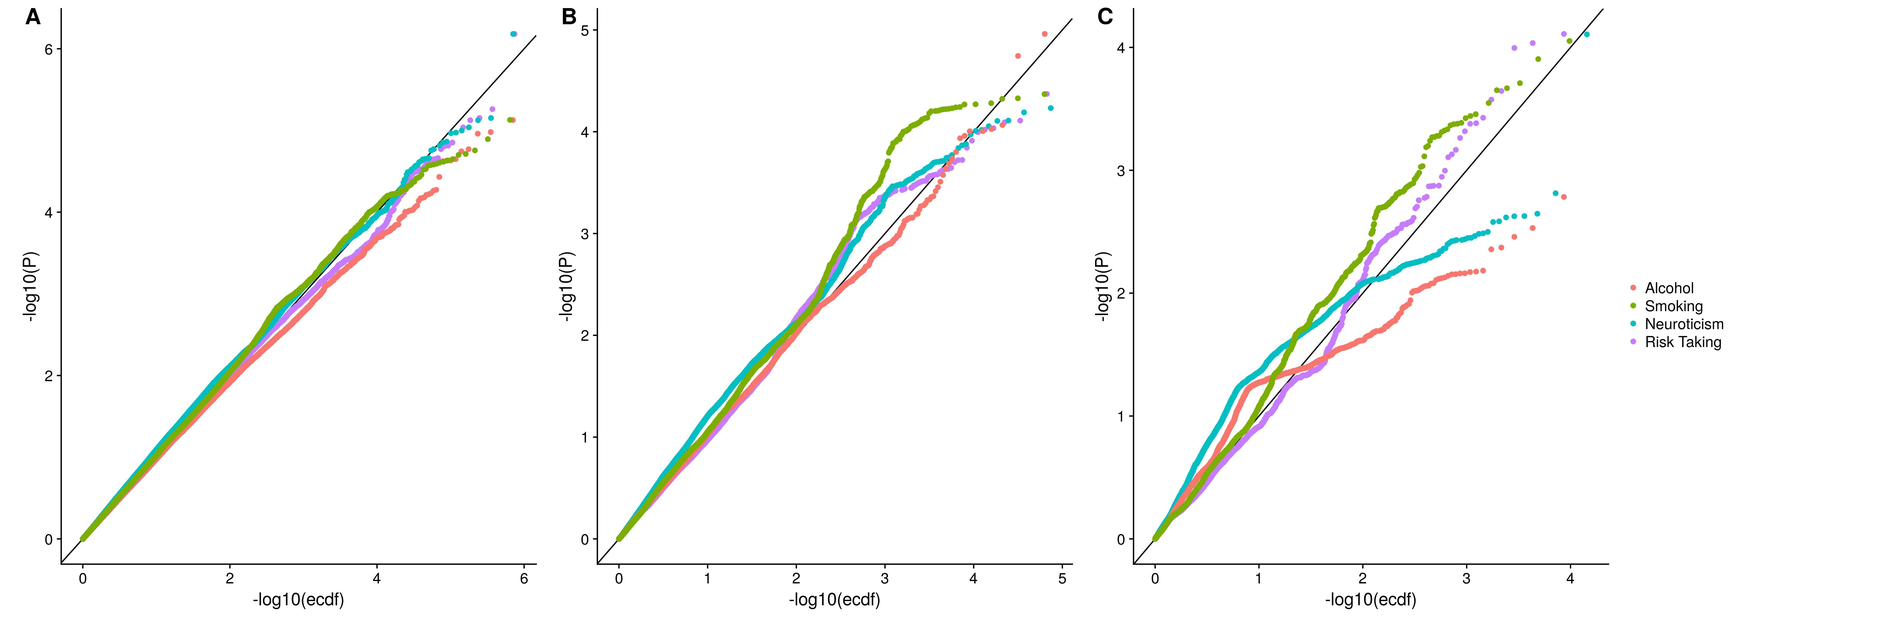
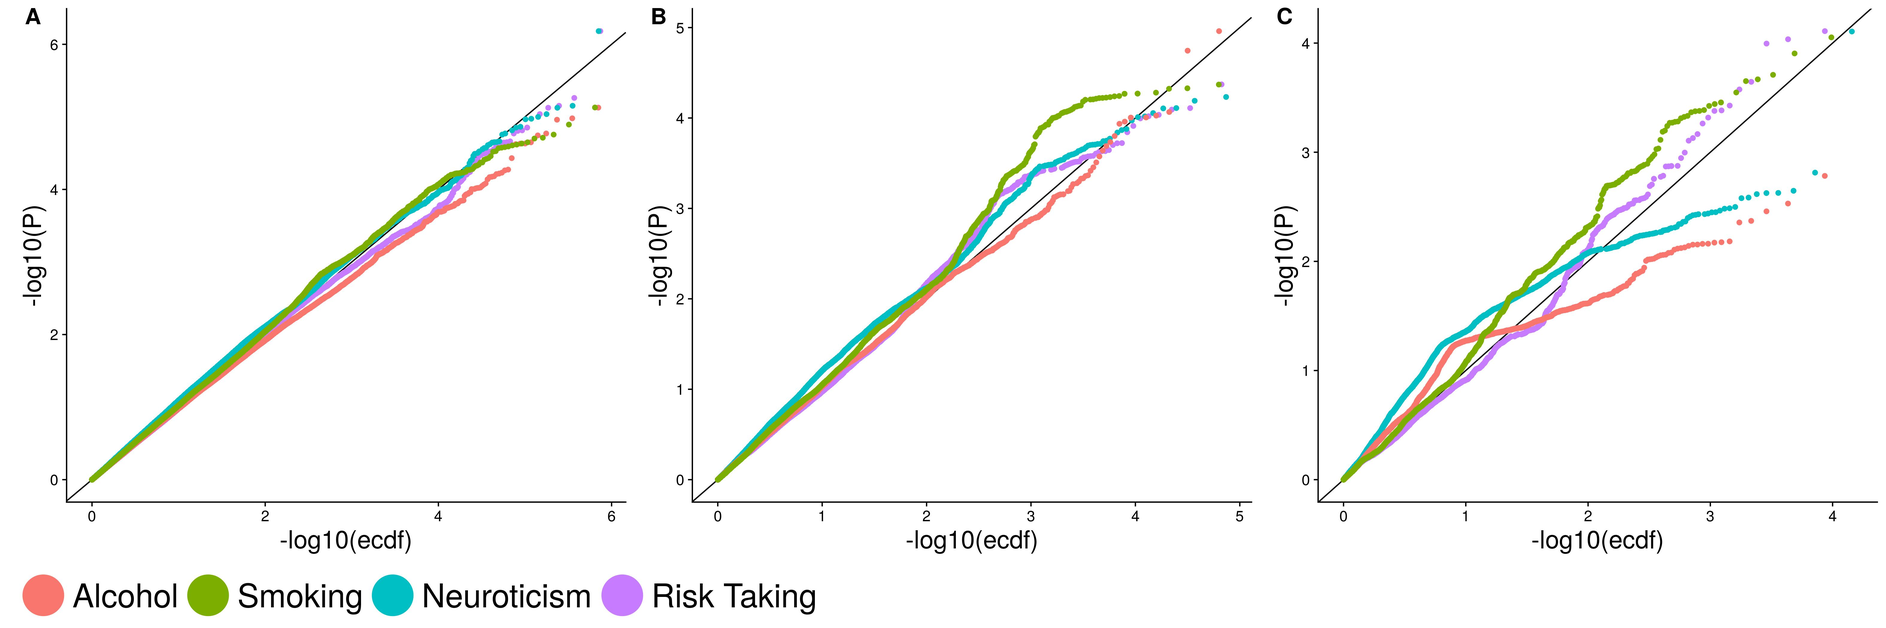
Overall editing and minor changes to ukb_assoc
- moved qq plots to appendix
- fixed figures for the conditional qq plots
- edited minor changes to intro, method, results and discussion
- removed uncessary phenotypes from descriptive table

diff --git a/tex/ukb_assoc/results.tex b/tex/ukb_assoc/results.tex
@@ -4,9 +4,8 @@
 \subsection{Descriptive Statistics}
 \label{sub:descriptive_statistics}
 
-Sex and age of participants is affecting both main and secondary phenotypes.
-However, while effects of both age and sex are significant these effects are rather small (see Figure~\ref{fig:disc}).
-Nevertheless, one can observe noticeable sex differnces in risk taking, alcohol consumption as well as neuroticism.
+Sex and age of participants is affecting both main and secondary phenotypes (see Figure~\ref{fig:disc}).
+One can observe noticeable sex differnces in risk taking, alcohol consumption as well as neuroticism.
 As expected, risk taking is more prevalent in male than in female subjects. 
 Similar, man seem to drink more alcohol than women.
 The opposite seems to be the case for neuroticism.
@@ -17,13 +16,13 @@ Similar to the effect of sex, age seem to have some influence on aggression, ris
 Risk taking, neuroticism and impulsive aggression seem to decline by age, while alcohol consumption seems rather stable.
 Further, one can observe that older individuals are more likley to currently smoke, or have smoked in the past.
 A result which is not particular surprising.
-
+Furthermore, these result suggest that a genome wide association study should include both age and sex as covariats.
 
 \begin{figure}[htpb]
   \centering
   \includegraphics[width=0.8\linewidth]{figure/phenotype/descriptives_plots.pdf}
   \caption{
-    Descriptive Statistics of primary and secondary phenotypes.
+    Descriptive Statistics of primary and secondary phenotypes for all participants.
     (A) Standarized effect of sex (male, female) on phenotypes. 
     A possitive effect size indicates creater prevalance in male than in female.
     Errorbars indicate the 95\% confidence interval.
@@ -54,59 +53,37 @@ Nevertheless, medium correlations were present between impulsive aggression and 
   \centering
   \includegraphics[width=0.6\linewidth]{figure/phenotype/corr_plot_ci.pdf} 
   \caption{
-    Phenotypical correlations among analysed phenotypes.
+    Phenotypical correlations among analysed phenotypes for all subjects.
     Displayed correlations were all significant after adjusting for multiple testing using the Bonferroni correction.
     In contrast to the genetic correlations, Caucasian and non-Caucasian subjects were used.
   }\label{fig:corr_pheno}
 \end{figure}
 
-\subsection{GWAS on Impulsive Aggression}
-\label{sub:impulsive_aggression_gwas}
+\subsection{GWAS on impulsive aggression and risk taking}
+\label{sub:gwas}
 
-Genome wide association analysis reveled no genome wide significant loci in $37,320$ subjects (see Figure~\ref{fig:gwas_impAgg}).
+Genome wide association analysis reveled no genome wide significant loci in $37,320$ impulsive aggression subjects.
 Observed SNP heritability was estimated at $5.32\% (SE=0.012)$ and are in line with previous estimated SNPs heritabilities in behavioral traits.
-
-\begin{figure}[!htpb]
-  \begin{subfigure}[t]{.5\textwidth}
-    \centering
-    \includegraphics[width=0.8\linewidth]{{figure/qq_plots/qq_plot_4526}.jpeg}
-    \caption{QQ-plot for Impulsive aggression}\label{fig:ImpAgqq}
-  \end{subfigure}
-  \begin{subfigure}[t]{.5\textwidth}
-    \centering
-    \includegraphics[width=0.8\linewidth]{{figure/manhatten_plots/manhatten_plot_4526}.jpeg}
-    \caption{Manhattan plot for Impulsive aggression}\label{fig:ImpAgmanhatten}
-  \end{subfigure}
-  \caption{
-    Manhattan and QQ Plot for Impulsive aggression.
-    No genome wide significant SNPs were identified in the given sample.\label{fig:gwas_impAgg}}
-\end{figure}
-
-\subsection{GWAS on Risk Taking}
-\label{sub:risk_taking_gwas}
 
 The genome wide association study on risk taking yield two genome wide significant loci in $120,286$ subjects in chromosome 3 and 6.
 Total observed SNP heritability is with $5.52\% (SE=0.0052)$ similar to that of impulsive aggression.
 The ratio between the LD-score regression intercept $\beta_0$ and the mean of the $\chi^2$-test statistics ($(\beta_0 - 1)/(mean(\chi^2)-1)$),
-which indicates the proportion of inflation to factors other than polygenic heritability, is with $0.0422$ ($SE=0.052$) low.
+which indicates the proportion of inflation to factors other than polygenic heritability, is with $0.0422$ ($SE=0.052$) neglectable.
 In addition, $\beta_0$ approaches 1 ($\beta_0=1.0082, SE=0.0056$) thus suggesting no population stratification (see Figure~\ref{fig:riskqq}).
 
 \begin{figure}[!htpb]
-	\begin{subfigure}{.5\textwidth}
-		\centering
-		\includegraphics[width=0.8\linewidth]{{figure/qq_plots/qq_plot_2040}.jpeg}
-		\caption{QQ-Plot of risk taking.}\label{fig:riskqq}
-	\end{subfigure}
-	\begin{subfigure}{.5\textwidth}
-		\centering
-		\includegraphics[width=0.8\linewidth]{{figure/manhatten_plots/manhatten_plot_2040}.jpeg}
-		\caption{
-      Manhattan plot of risk taking.
-      The horizontal like indicate genome wide significance.
-    }\label{fig:riskmanhatten}
-	\end{subfigure}
-  \caption{QQ and Manhattan plot for Risk Taking. 
-    Two separate genome wide significant loci were identified, while a third is marginal significant.\label{fig:risktaking_gwas}}
+  \begin{subfigure}{1\textwidth}
+  \centering
+  \includegraphics[width=0.8\linewidth]{figure/manhatten_plots/agg_manhatten_color_2_A.jpeg}
+  \end{subfigure}
+  \begin{subfigure}{1\textwidth}
+  \centering
+  \includegraphics[width=0.8\linewidth]{figure/manhatten_plots/risk_manhatten_color_B.jpeg}
+  \end{subfigure}
+  \caption{
+    Manhattan Plot for impulsive aggression (A) and risk taking (B).
+    The red line indicates genome wide significance level at $\alpha=5\times10^{-8}$.
+    The blue line represents a suggestive genetic effect at $\alpha=5\times10^{-5}$.}
 \end{figure}
 
 Closer inspection of the signal in chromosome 3 shows 2 lead SNPs namely \textit{rs1308431} and \textit{rs7639518} (see Table~\ref{tab:lead_snps_risk}).
@@ -117,14 +94,14 @@ This conditional model indicates that \textit{rs7639518} is not independent of \
 
 \paragraph{rs9379971}
 \label{par:rs9379971}
-This particular variant has the strongest association among all tested SNPs with a p-value of $2.14e-09$ (see Figure~\ref{fig:rs9379971}). 
+This particular variant has the strongest association among all tested SNPs with a p-value of $2.14\times10^{-9}$ (see Figure~\ref{fig:rs9379971}). 
 The SNP is an intronic variant, without any mentioning in the GWAS catalog~\cite{Welter2014}.
 The SNPs has been associated with \textit{POM121L2} and the region has been connected with schizophrenia across multiple studies~\cite{Aberg2013,Shi2009}.
 However, the function of \textit{POM121L2} is not well understood.
 
 \paragraph{rs13084531}
 \label{par:rs13084531}
-This SNP has a comparable p-value ($9.826e-09$) and is an intron variant within the gene \textit{CADM2}.
+This SNP has a comparable p-value ($9.826\times10^{-9}$) and is an intron variant within the gene \textit{CADM2}.
 The gene has been associated with BMI~\cite{Speliotes2010} as well as executive functions and processing speed~\cite{Ibrahim-Verbaas2015}.
 Interestingly the SNP associated in the study by~\cite{Ibrahim-Verbaas2015} (\textit{rs17518584}) is in LD with \textit{rs13084531} ($r^2=0.4951;D'=0.9983$).
 Hence suggesting a common loci for executive functions and risk taking.
@@ -133,8 +110,8 @@ Further associated region (3p12.1) has been connected to spirometric measures in
 \paragraph{rs4386663}
 \label{par:rs4386663}
 This SNP is an intergenic variant with no known association to regulatory functions or genes.
-However, the SNP is only marginal significant ($6.059e-08$).
-Interestingly the chromosomal region of this SNP (chr4q12) was also associated with spirometric measures in smokers by the same study as in variant \textit{rs13084531} (see paragraph~\ref{par:rs13084531}).
+However, the SNP is only marginal significant ($6.059\times10^{-8}$).
+Interestingly the chromosomal region of this SNP (chr4q12) was also associated with spirometric measures in smokers by the same study as in variant \textit{rs13084531}.
 
 \begin{table}
 	\small
@@ -151,16 +128,14 @@ Interestingly the chromosomal region of this SNP (chr4q12) was also associated w
 
 Figure~\ref{fig:cFDR} shows the conditional QQ plots for both aggression and risk taking for each of the chosen thresholds and conditional phenotypes.
 Both aggression and risk taking, conditional on each other did not result in any noticeable pleiotropic effect.
-However, while aggression conditional on neuroticism did not result in an inflation within the conditional QQ plots, risk taking was noticeable inflated conditional on SNPs which reached a relatively low p-value cut-off.
-This was also the case for both smoking and alcohol consumption.
+However, risk taking was noticeable inflated conditional on SNPs which reached a relatively low p-value cut-off in neuroticism, alcohol consumption and smoking.
 Interestingly, inflation of risk taking SNPs conditional on neuroticism was not persistent across the chosen thresholds.
 In particular, while considerable inflation could be observed at $p\leq0.1$, at lower p-value threshold this effect was reduced.
 In contrary, the inflation caused conditional on alcohol consumption and smoking was persistent across the three thresholds.
 
 As already indicated in Figure~\ref{fig:cFDR}, impulsive aggression conditional on the four remaining phenotypes did not result in any loci with an $cFDR\leq0.01$.
-Nevertheless, cFDR identified a single independent loci, \textit{rs570682061}, in risk taking which passes both $cFDR\leq0.01$ as well replication in an independent sample (Table~\ref{tab:cFDR}).
-This particular SNPs is independent of the genome wide significant loci identified unconditional on other phenotypes.
-This locus has not been associated with any known gene or phenotype.
+Nevertheless, cFDR identified a single independent loci, \textit{rs570682061}, in risk taking which passes both $cFDR\leq0.01$ as well replication in an independent sample after clumping (Table~\ref{tab:cFDR}).
+This particular SNPs is independent of the genome wide significant loci identified unconditional on other phenotypes and has not been associated with any known gene, regulatory element or phenotype.
 
 \begin{figure}[!htpb]
   \centering
@@ -200,13 +175,13 @@ The largest genetic correlations could be observed between impulsive aggression 
 followed by a considerable correlation between risk taking and aggression ($r_g=0.44, SE=0.1039, p=2.6656e-5$).
 Interestingly, relatively large negative correlations are also present between alcohol consumption and aggression ($r_g=-0.39, SE=0.0892, p=1.6942e-5$)
 as well as between smoking and aggression ($r_g=0.4, SE=0.0716, p=1.6442e-08$).
-Correlation, between smoking and alcohol consumption is not significant as well of neglectable effect ($r_g=0.06, SE=0.044628, p=0.15502$).
+Correlation, between smoking and alcohol consumption was not significant as well of neglectable effect ($r_g=0.06, SE=0.044628, p=0.15502$).
 Interestingly, these respectively high genetic correlations are not reflected in the corresponding conditional FDR (see Figure~\ref{fig:cFDR}).
 
 Further, risk taking shows non-significant and small correlation with neuroticism ($r_g=-0.12, SE=0.0738, p=0.10629$) and
 alcohol consumption ($r_g=0.07, SE=0.051506, p=0.19604$) but the correlation between risk taking and smoking ($r_g=0.34, SE=0.0514, p=2.4044E-11$) is considerable.
 In addition, medium correlations were present between neuroticism and alcohol consumption ($r_g=-0.17, SE=0.0406, p=2.6366e-4$). 
-Correlations were also present between neuroticism and smoking, but the effect did not pass multiple testing ($r_g=0.16, SE=0.0662, p=0.017786$).
+Effects were also present between neuroticism and smoking, but did not pass multiple testing ($r_g=0.16, SE=0.0662, p=0.017786$).
 
 \begin{figure}[!h]
 	\centering
@@ -217,5 +192,3 @@ Correlations were also present between neuroticism and smoking, but the effect d
     A cross indicate a non-significant correlation after adjusting for multiple testing.
   }\label{fig:gcor}
 \end{figure}
-
-

diff --git a/tex/ukb_assoc/introduction.tex b/tex/ukb_assoc/introduction.tex
@@ -4,38 +4,36 @@
 As described in Chapter~\ref{chap:longHera}, aggressive behavior is influenced by genetic factors to a considerable degree.
 However, while twin studies are able to estimate the overall influence of genetic and environmental factors on a phenotype, these studies are unable to identify specific genetic loci.
 The identification of specific genetic markers can foster our knowledge of the biological components involved in aggressive behavior. 
-This chapter will describe and present the result of two Genome Wide Association Studies (see Section~\ref{sec:descriptive_gwas}).
-Namely impulsive aggression and risk taking.
+This chapter will describe and present the result of two Genome Wide Association Studies (see Section~\ref{sec:descriptive_gwas}) on impulsive aggression and risk taking.
 
 As outlined in Section~\ref{sec:evolutionary_theories}, aggressive behavior is associated with a significant risk for ones own well-being.
 An aggressive action could result in bodily harm, death and reduced survival and reproductive fitness and is therefore an especially risky behavior.
 Thus it is not surprising that risk taking and aggression have been shown to be closely linked in previous studies.
 For example, a study of rural middle school children found that higher level of risk taking was  predictive for general acceptance of aggression as well as aggressive behavior in general~\cite{Swaim2004}.
 In another example,~\citet{Deffenbacher2003} showed that high anger drivers engaged in more risky behavior than low anger drivers.
-Further, \citet{Zuckerman2000} suggested that certain personality characterises are associated with risk taking, namely impulsive sensation seeking, aggression and sociability, are part of a evolutionary based sensation seeking behavior which facilitated risky behavior.
+\citet{Zuckerman2000} suggested that certain personality characterises are associated with risk taking, namely impulsive sensation seeking, aggression and sociability, and are part of a evolutionary based sensation seeking behavior which facilitated risky behavior.
 These behaviors could support the exploration of new territories, and foraging for food and mates.
 Therefore, provide an potential evolutionary advantage.
-However, these behaviors can also result in maladaptive adaptations within our modern times, such as reckless driving or drug abuse, as well as aggression.
+However, these behaviors can also result in maladaptive adaptations within our modern times, such as reckless driving or aggressive behavior towards peers and others.
 Unfortunately, while there is considerable literature regarding the heritability of both risk taking and aggression (see Chapter~\ref{chap:longHera}) there is no study investigating the genetic correlations between the two phenotypes.
 Thus it remains unclear to which extend risk taking and aggression might share specific functional pathways or how close these two phenotypes are genetically.
 
-Previously testosterone~\cite{Vermeersch2008} has been suggested to influence both risk taking and aggressive behavior since both behaviors are disproportional present in male~\cite{Byrnes1999}.
+Previously, testosterone~\cite{Vermeersch2008} has been suggested to influence both risk taking and aggressive behavior since both behaviors are disproportional present in male~\cite{Byrnes1999}.
 However, recent meta-analysis have shown that  the influence of this sex hormone is unclear and there is currently no evidence that the hormone affects either aggression~\cite{Archer2005a} or risk taking~\cite{Vermeersch2008}.
 
 Overall heritability estimates are rather similar between risk taking~\cite{Anokhin2009} and aggression (see Chapter~\ref{chap:longHera})
 However, there is some indication that the proportion of variance explained by genetic factors might depend on age in risk taking~\cite{Anokhin2009} but not in aggression~\cite{Porsch2016}.
-In a study on 12 and 14 year old twin pairs who took part in risk taking task showed only small genetic effects at age 12, but considerable genetic influence at age 14 (50\%)~\cite{Anokhin2009}.
+In a study on 12 and 14 year old twin pairs who took part in risk taking task showed only no genetic effects at age 12, but considerable genetic influence at age 14 (50\%)~\cite{Anokhin2009}.
 This is in contrast to the study presented in Chapter~\ref{chap:longHera} which reported stable influence of genetic factors across three different age groups.
 However the study by~\citet{Anokhin2009} used only 169 MZ and 203 DZ twins across the two age groups.
 These low sample sizes could considerable impair the detection of common environment and genetic effects. 
 Hence it is unclear if heritability estimates remain stable across age groups in risk taking.
 
-In addition to previous efforts to estimate heritability of aggression and risk taking there have been a number of studies aimed to identify specific genetic loci associated with aggression and risk taking in GWAS\@.
-Specifically there have been a number of GWASs on aggressive behavior~\cite{Fernandez-Castillo2016}.
-However, most studies have little statistical power and were unable to identify genome wide associated loci.
-In one of the most comprehensive meta-analysis of aggressive behavior~\citet{Vassos2014} the authors found no genome wide significant signal.
+In addition to previous efforts to estimate the overall heritability of aggression and risk taking there have been a number of studies aimed to identify specific genetic loci.
+However, most GWASs on aggression have little statistical power and were unable to identify genome wide associated loci.
+In one of the most comprehensive meta-analysis no genome wide significant signal was detected~\citet{Vassos2014}.
 However, studies included in this meta-analysis showed a considerable degree of heterogeneity in the phenotype.
-Specifically, the study included psychiatric as well as population based samples, hence making it difficult to identify loci specific signals.
+Specifically, it included psychiatric as well as population based samples, hence impairing the authors ability to detect genome wide significant signals.
 Indeed, in their review of association studies in aggressive behavior,~\citet{Fernandez-Castillo2016} found that most hypothesis free approaches lacked sample size, assessed often very heterogeneous phenotypes and did not differentiated between direct and indirect aggression. 
 Thus explaining the lack of genome wide associations in aggressive behavior.
 
@@ -57,18 +55,18 @@ However, the genetic correlations between impulsive aggression, risk taking and 
 A better understanding of these genetic interrelationships could provide valuable inside into shared molecular pathways of these complex human behaviors.
 
 At last a number of personality measurements have been associated with risk taking and aggressive behavior~\cite{Anderson2002a}.
-Most prominently, Neuroticism.
+Most prominently, neuroticism.
 Neurotic individuals have been found to express higher levels of anger, as well as other negative emotions such as anxiety, sadness and guilt~\cite{Watson1984}.
-Specifically, Neuroticism is linked to coping strategies which increase interpersonal conflicts~\cite{Bolger1991,Ode2008}
+Specifically, neuroticism is linked to coping strategies which increase interpersonal conflicts~\cite{Bolger1991,Ode2008}
 Further, neurotic individuals are more reactive to negative stressors therefore resulting in higher levels of expressed anger and aggression~\cite{Ode2008}.
-Similar a number of other studies reported a lower level of risk taking in subjects with higher degree of Neuroticism~\cite{Lauriola2001,InstituteofMedicine2011,Paulus2003}.
+Similar a number of other studies reported a lower level of risk taking in subjects with higher degree of neuroticism~\cite{Lauriola2001,InstituteofMedicine2011,Paulus2003}.
 These phenotypic findings would suggest a considerable genetic overlap between risk taking, aggression and Neuroticism.
-However, currently there is no study addressing the potential genetic overlap of Neuroticism, aggression and risk taking.
+However, currently there is no study addressing the potential genetic overlap of neuroticism, aggression and risk taking.
 
 In conclusion, while there have been a number of studies conducted to identify specific genetic loci associated  with either risk taking and aggression, only one genome wide significant signal could be identified for risk taking.
 Attempts to identify specific molecular markers with aggression were handicapped by low sample size and high phenotypic heterogeneity.
 Further, there are currently no studies looking at the genetic overlap between aggression, risk taking and related phenotypes.
-Specifically, alcohol consumption, tobacco usage, and Neuroticism.
+Specifically, alcohol consumption, tobacco usage, and neuroticism.
 
 Within this study I will make use of the UK BioBank and aim to identify specific genetic loci associated with aggression and risk taking.
-In addition, I will estimate the genetic correlations between alcohol consumption, risk taking, aggression, Neuroticism, as well as smoking behaviors in order to foster our understanding of the relationship between these complex human behaviors.
+In addition, I will estimate the genetic correlations between alcohol consumption, risk taking, aggression, neuroticism, as well as smoking behaviors in order to foster our understanding of the relationship between these complex human behaviors.

diff --git a/tex/ukb_assoc/discussion.tex b/tex/ukb_assoc/discussion.tex
@@ -24,8 +24,7 @@ However, there are multiple possible explanation for this discrepancy.
 Foremost, previous studies investigating the causal link between alcohol consumption and aggression were randomized control trials and used only small number of participants.
 In addition, most participants were College students.
 In contrast the here presented investigation made use of a population based sample of mostly older participants.
-Thus could potentially explain the differences between previous studies and the here presented phenotypical results.
-Nevertheless, it is still important to note that this would affect the genetic correlations between the two traits to a lesser extend.
+This could potentially explain the differences between previous studies and the here presented phenotypical results.
 
 It is further surprising that the overall genetic correlation between alcohol consumption and risk taking is relatively low.
 This stands in contrast to the considerable inflation within the conditional QQ-plot.
@@ -35,13 +34,13 @@ An alternative consideration is that the genetic correlation between risk taking
 However, this argument stand in contrast to the considerable genetic correlations between impulsive aggression and alcohol consumption, while the cFDR for aggressive behavior displays no indication of an inflation.
 Here it is important to note that genetic correlations can arise from a multitude of different factors (as described in Section~\ref{sec:heritability_and_genetic_correlation}).
 Assessing the whole genome to estimate a pairwise correlation could potentially be more biased by additional third variables than assessing the overall inflation of SNPs selected under some $p-value$ threshold.
-Similar a recent study by~\citet{Shi2016a} showed considerable regional genetic correlations among traits which had neglectable overall correlations.
+Similar a recent study by~\citet{Shi2016a} showed regional genetic correlations among traits which had neglectable overall correlations.
 Thus supporting the argument that the discrepancy between cFDR and genetic correlations is due to the selection of highly significant SNPs.
 
 In addition to the identified genetic overlap of alcohol consumption with risk taking and aggressive behavior the involvement of smoking is also of relevance.
 In particular, two genome wide significant genetic variants have, next to their association with risk taking, also associations with spirometric measurements of smokers.
 This potential genetic overlap is supported by both cFDR as well as genetic correlations estimates.
-These considerable genetic overlaps are surprising given the very limited phenotypical correlations between the smoking and risk taking as well as aggression.
+These genetic overlaps are surprising given the very limited phenotypical correlations between the smoking and risk taking as well as aggression.
 A possible explanation is that smoking behavior is influenced by the ability of an individual to  inhibit temptation.
 While this effect might not be strong enough to be observed in the phenotypic data, it does manifest itself by a genetic overlap with both risk taking and aggressive behavior.
 Two phenotypes which have been liked to a sensation seeking personality cluster~\cite{Zuckerman2000}.
@@ -52,14 +51,14 @@ Similar, analysis of the interrelationship between neuroticism and risk taking a
 Specifically, while the genetic correlations between impulsive aggression and neuroticism is high, the correlations between the personality trait and risk taking is not significant, nor of large effect.
 This is very much in line with the phenotypic correlations which suggest relatively high correlations between neuroticism and aggression but nearly no correlation with risk taking.
 Further, previous studies have shown that neurotic individuals are less likely to engage in risky behavior~\cite{Lauriola2001,InstituteofMedicine2011,Paulus2003}, while subjects with high level of neuroticism are known to be more likely act aggressively towards others~\cite{Meesters2007}.
-There here presented genetic evidence support this phenotypical connection and further suggest that neuroticism and aggressive behavior share substantial degree of genetic factors.
+The here presented genetic evidence support this phenotypical connection and further suggest that neuroticism and aggressive behavior share substantial degree of genetic factors.
 
-Despite the here presented strong evidence for genetic overlap between risk taking, aggression, alcohol consumption, smoking and neuroticism there a few limitations.
+Nevertheless, the here presented study has a few limitations.
 Foremost, I was unable to detect a genome wide significant signal in impulsive aggression.
 This can be explained by the limited sample size which potentially also affect the analysis of the cFDR\@.
 However, the sample size is sufficient to compute genetic correlations across all analysed phenotypes.
 
-While the instrument used to measure both neuroticism, alcohol consumption, risk taking and smoking status have been used in the past, the usage of single item questionnaires to assess aggression is not common.
+In addition, while the instrument used to measure both neuroticism, alcohol consumption, risk taking and smoking status have been used in the past, the usage of single item questionnaires to assess aggression is not common.
 However, as shown in Chapter~\ref{chap:longHera}, distribution of aggression scores often approach an L-like distribution and can often be dichotomised into either aggressive or not aggressive individuals.
 Thus suggesting that the use of a single item to measure aggressive behavior is justified.
 
@@ -68,7 +67,7 @@ Thus suggesting that the use of a single item to measure aggressive behavior is 
 
 This study was able to replicated previous genome wide significant signals in risk taking.
 Further, usage of conditional FDR was able to identify an additional locus associated with risk taking.
-In addition, I showed considerable genetic overlap between risk taking and aggressive behavior, as well as with other traits.
+In addition, I have showen considerable genetic overlap between risk taking and aggressive behavior, as well as with other traits.
 In particular, between aggression and neuroticism as well as between smoking and risk taking.
 Thus suggesting that these traits might be influenced by common genetic factors.
 However, the exact causal connection between these traits remains unknown and further studies, possibly with the use of Mendelian randomizations, might be necessary to further understand the interrelationships between these complex human behaviors. 

diff --git a/tex/ukb_assoc/method.tex b/tex/ukb_assoc/method.tex
@@ -49,7 +49,10 @@ Smoking status was infered by asking participants if they ever have smoked (scor
 \begin{table}[!htpb]
 	\centering
 	\resizebox{\textwidth}{!}{\input{tables/descriptive.tex}}
-  \caption{Sample size and missingness across Caucasians and non-Caucasians participants.
+  \caption{
+    Sample size and missingness across Caucasians and non-Caucasians participants.
+    Missingness indicates the percentage of participants who were not phenotyped for a particular trait.
+    The Caucasian sample represents all participants which were used to conduct the genome wide association study.
 }\label{tab:descriptive_gwas} 
 \end{table}
 
@@ -61,7 +64,7 @@ UL BiLEVE was used for most samples ($\sim100,000$), while the array chip from A
 Quality control and imputation was performed central with the UK BioBank.
 However, I further conducted additional quality control.
 Variants which whose missing call rate did exceed 10\% as well as those with minor allele frequency below 1\% were excluded.
-Further variants which did not pass a Hardy-Weinberg equilibrium test threshold of $1e-9$ were also removed from the analysis.
+Further variants which did not pass a Hardy-Weinberg equilibrium test threshold of $1\items10^{-9}$ were also removed from the analysis.
 In addition I only included participants with `white European' ancestry identified by a k-mean cluster of the first four principle components of genotype data.
 The total number of participants remaining after quality control of geno- and phenotype are displayed in Table~\ref{tab:descriptive_gwas}.
 
@@ -73,7 +76,7 @@ Association analysis of autosomal SNPs was performed with Plink~\cite{Purcell200
 Lead SNPs were identified using clumping.
 Clumping is the process of grouping SNPs within a given genomic window and LD together.
 Various thresholds and window sizes can be used.
-Within this study the more commonly $250kb$ window region was used.
+Within this study the more commonly $250kb$ window region was applied.
 SNPs were considered to be within the same LD group when passing an threshold of $r^2 \ge 0.2$.
 The SNPs with the lowest p-value within each group was considered the lead SNPs.
 
@@ -82,8 +85,8 @@ The SNPs with the lowest p-value within each group was considered the lead SNPs.
 
 Pleiotropy informed Conditional False Discovery Rate (cFDR) was used to identify additional genetic loci associated with risk taking or impulsive aggression. 
 In principle, cFDR makes use of pleiotropic effect between two phenotypes to increase statistical power.
-Within this chapter I computed the empirical cumulative distribution function on nominal p-values of phenotype A conditional on p-values of phenotype B passing a given threshold~\cite{Andreassen2013}.
-Further applied genomic control to all nominal p-values using the genomic inflation factor $\lambda{GC}$ to all nominal p-values.
+Within this analysis I computed the empirical cumulative distribution function on nominal p-values of phenotype A conditional on p-values of phenotype B passing a given threshold~\cite{Andreassen2013}.
+Further, I applied genomic control to all nominal p-values using the genomic inflation factor $\lambda_{GC}$ to all nominal p-values.
 This was done by converting p-values to z-scores, estimating the median z-score for each GWAS, and dividing the squared median z-score by the expected median of a $\chi^2$-distribution  with $df=1$.
 
 Conditional QQ-plots were constructed by plotting adjusted nominal p-values on the y-axis, while the empirical distribution function of p-values on the x-axis.
@@ -102,11 +105,11 @@ In addition, SNPs which passed $cFDR\leq 0.01$ were replicated in an independent
 This independent sample was generated based on the non-Caucasian samples excluded in the initial discovery stage.
 In order to minimize the effect of populations stratification in this diverse sample, the same covariants were included during the computation as in the original discovery GWAS\@.
 Quality and potential population stratification was a assessed using LD-score regression as well as visual inspection of the QQ plot.
-This careful inspection did not detect any major population stratification in the non-Caucasian sample.
+This careful inspection did not detect any major population stratification in the non-Caucasian sample after including PC as covariats.
 
 \subsection{Genetic Correlation}
 \label{sub:genetic_correlation_ukb_assoc}
 
-Computation of genetic correlations were done with LD-score (see Section~\ref{sub:ld_score_regression}).
+Computation of genetic correlations were done with LD-score (see Section~\ref{sub:ld_score_regression} for further explanations).
 Thus, pairwise genetic correlations were computed on the summary statistics of each GWAS\@.
-Multiple testing was addressed with the more stringent Bonferroni correction.
+Multiple testing was addressed with the more srtringent Bonferroni correction.

diff --git a/tex/ukb_assoc/tables/descriptive.tex b/tex/ukb_assoc/tables/descriptive.tex
@@ -6,11 +6,9 @@
 \multicolumn{1}{l}{}&\multicolumn{1}{c}{Control/Cases}&\multicolumn{1}{c}{Missingness (in \%)}&\multicolumn{1}{c}{}&\multicolumn{1}{c}{Control/Cases}&\multicolumn{1}{c}{Missingness (in \%)}\tabularnewline
 \hline
 Risk Taking&107011/39436&$ 3.81$&&86552/29703&$ 3.351$\tabularnewline
-Happiness&51275&$66.32$&&39178&$67.429$\tabularnewline
 Neuroticism&122511&$19.53$&&98086&$18.456$\tabularnewline
 Smoking&80984/70678&$ 0.39$&&64115/55853&$ 0.264$\tabularnewline
 Impulsive Aggression&40861/9397&$66.99$&&31513/6998&$67.984$\tabularnewline
-IQ&49713&$67.35$&&38425&$68.055$\tabularnewline
 Drinking&151985&$ 0.17$&&120208&$ 0.065$\tabularnewline
 \hline
 \end{tabular}

diff --git a/tex/ukb_assoc/appendix.tex b/tex/ukb_assoc/appendix.tex
@@ -2,6 +2,17 @@
 \section{Appendix}
 \label{sec:appendix_ukb_assoc}
 
+\begin{figure}[!htpb]
+    \centering
+    \includegraphics[width=0.8\linewidth]{{figure/qq_plots/qq_plot_4526}.jpeg}
+    \caption{QQ-plot for Impulsive aggression}\label{fig:ImpAgqq}
+\end{figure}
+
+\begin{figure}[!htpb]
+  \centering
+  \includegraphics[width=0.8\linewidth]{{figure/qq_plots/qq_plot_2040}.jpeg}
+  \caption{QQ-Plot of risk taking.}\label{fig:riskqq}
+\end{figure}
 
 \begin{figure}[!htpb]
 	\centering
